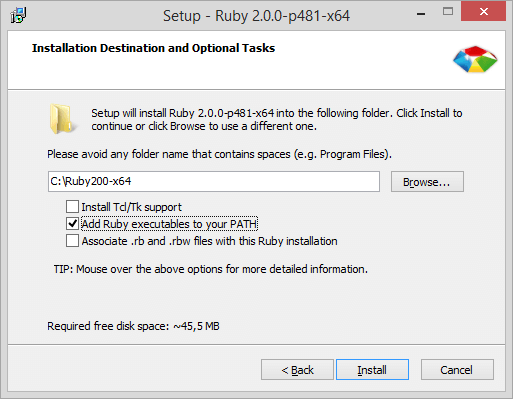
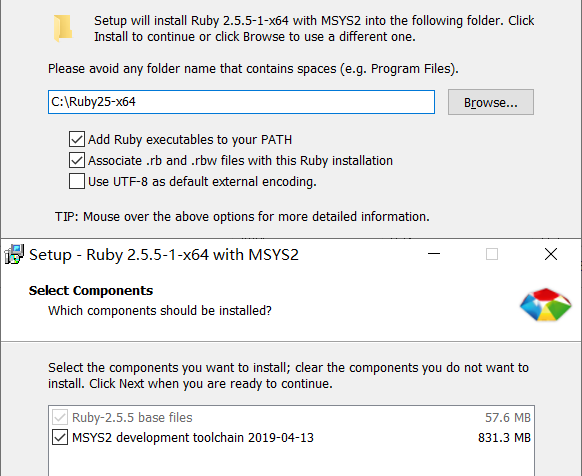
Translate step 1

Changed region(s): [[0.0, 0.0, 1.0, 1.0]]

diff --git a/1-ruby-and-devkit.md b/1-ruby-and-devkit.md
@@ -1,57 +1,37 @@
 ---
 layout: page
-title: Install Ruby and the Ruby DevKit
+title: 安装 Ruby 和 Ruby DevKit
 nav_title: Ruby
 step: 1
 ---
 
-Ruby is the programming language that Jekyll is written in. You'll need to install Ruby and the corresponding DevKit, which is needed to build some of Jekyll's dependencies as "native extensions".
+Ruby 是 Jekyll 所用的编程语言。您将需要安装 Ruby 和相应的 Devkit，这是将 Jekyll 的一些依赖项构建为 "native extensions" 所必需的。Jekyll 有一些依赖项只提供原始源代码。为了使它们成为功能完整的可执行文件，您可能需要安装相应的 Devkit。
 
-## Install Ruby
+## 安装 Ruby 和 相应的 Devkit
 
-First, click on the button below and download the installer for Ruby v2.0.0 that matches your system's architecture (x86 / x64).
+首先，单击下面的按钮，下载与您的系统体系结构 (x86 / x64) 匹配的 Ruby 2.5.5 版安装程序。此安装程序来源于 RubyInstaller 并已整合相应的 Devkit。
 
-<a href="http://rubyinstaller.org/downloads/" class="button-external" target="_blank">Get Ruby for Windows</a>
+<a href="https://github.com/oneclick/rubyinstaller2/releases/download/RubyInstaller-2.5.5-1/rubyinstaller-devkit-2.5.5-1-x64.exe" class="button-external" target="_blank">Ruby+Devkit 2.5.5-1 (x64)</a>
 
-Execute the installer and go through the steps of the installation. When you get to the screen below, make sure to check the "Add Ruby executables to your PATH" box.
+<a href="https://github.com/oneclick/rubyinstaller2/releases/download/RubyInstaller-2.5.5-1/rubyinstaller-devkit-2.5.5-1-x86.exe" class="button-external" target="_blank">Ruby+Devkit 2.5.5-1 (x86)</a>
 
-<img alt="Screenshot of the Ruby installation's final step" src="../public/img/ruby-path.png" class="img-nice">
+执行安装程序并完成安装步骤。当您进入下面的页面时，请确保选中 "Add Ruby executables to your PATH" 复选框以及 "MSYS2 development toolchain" 复选框。
 
-Click Install and Ruby will be installed within seconds.
+<img alt="Screenshot of the Ruby installation" src="../public/img/ruby-path.png" class="img-nice">
 
-## Install the Ruby DevKit
+单击 Install，Ruby 将很快安装完毕。在安装完成页面，请不要直接退出安装程序。
 
-Jekyll has some dependencies which, out of the box, only provide raw source code. To make them into fully functional executables, you'll probably need to install the Development Kit.
+<img alt="Screenshot of the MSYS2 installation" src="../public/img/ruby-msys2.png" class="img-nice">
 
-Click the button below and download the DevKit archive that corresponds to your Ruby installation and system architecture. For Ruby v2.0.0, the file name will begin with `DevKit-mingw64`. Choose the 32bits or 64bits version depending on your system.
+请确保选中 "Run 'ridk install' to setup MSYS2" 复选框，并点击 Finish 完成安装。完成后将会弹出 RubyInstall2 的 CMD 窗口并提示输入数字选择安装组件，不输入数字并直接回车安装所有组件。
 
-<a href="http://rubyinstaller.org/downloads/" class="button-external" target="_blank">Get the Ruby DevKit</a>
+等待 RubyInstall2 完成安装，此步骤所需时间可能较长，请耐心等待全部配置完成
 
-The download is a self-extracting archive. When you execute the file, it'll ask you for a destination for the files. Enter a path that has no spaces in it. We recommend something simple, like `C:\RubyDevKit\`. Click Extract and wait until the process is finished.
+## 完成
 
-Next, you need to initialize the DevKit and bind it to your Ruby installation. Open your favorite command line tool and navigate to the folder you extracted the DevKit into.
-
-~~~
-cd C:\RubyDevKit
-~~~
-
-Auto-detect Ruby installations and add them to a configuration file for the next step.
-
-~~~
-ruby dk.rb init
-~~~
-
-Install the DevKit, binding it to your Ruby installation.
-
-~~~
-ruby dk.rb install
-~~~
-
-## Summary
-
-That's it! If all went well, you now have a working Ruby installation on your machine and you can build fully functional executables using the Ruby Development Kit. Ruby includes a way to install so-called *gems*&mdash;software packages that you can use from the command line. Jekyll is one of them! Click the button below to find out how you can successfully install it.
+完工！如果一切顺利的话，现在您的机器上已经安装了一个可以运行的 Ruby，您可以使用 Ruby Devkit 来构建功能完整的可执行文件。Ruby 提供了一种安装所谓的 *gems*&mdash;软件包 的方法，您可以从命令行使用这些软件包。Jekyll 就是其中之一。单击下面的按钮以了解如何安装它。
 
 <div class="pagination">
-  <a class="pagination-item older" href="{{ site.baseurl }}">&laquo; Introduction</a>
-  <a class="pagination-item newer" href="{{ site.baseurl }}2-jekyll-gem">Install Jekyll Gem &raquo;</a>
+  <a class="pagination-item older" href="{{ site.baseurl }}">&laquo; 介绍</a>
+  <a class="pagination-item newer" href="{{ site.baseurl }}2-jekyll-gem">安装 Jekyll Gem &raquo;</a>
 </div>
